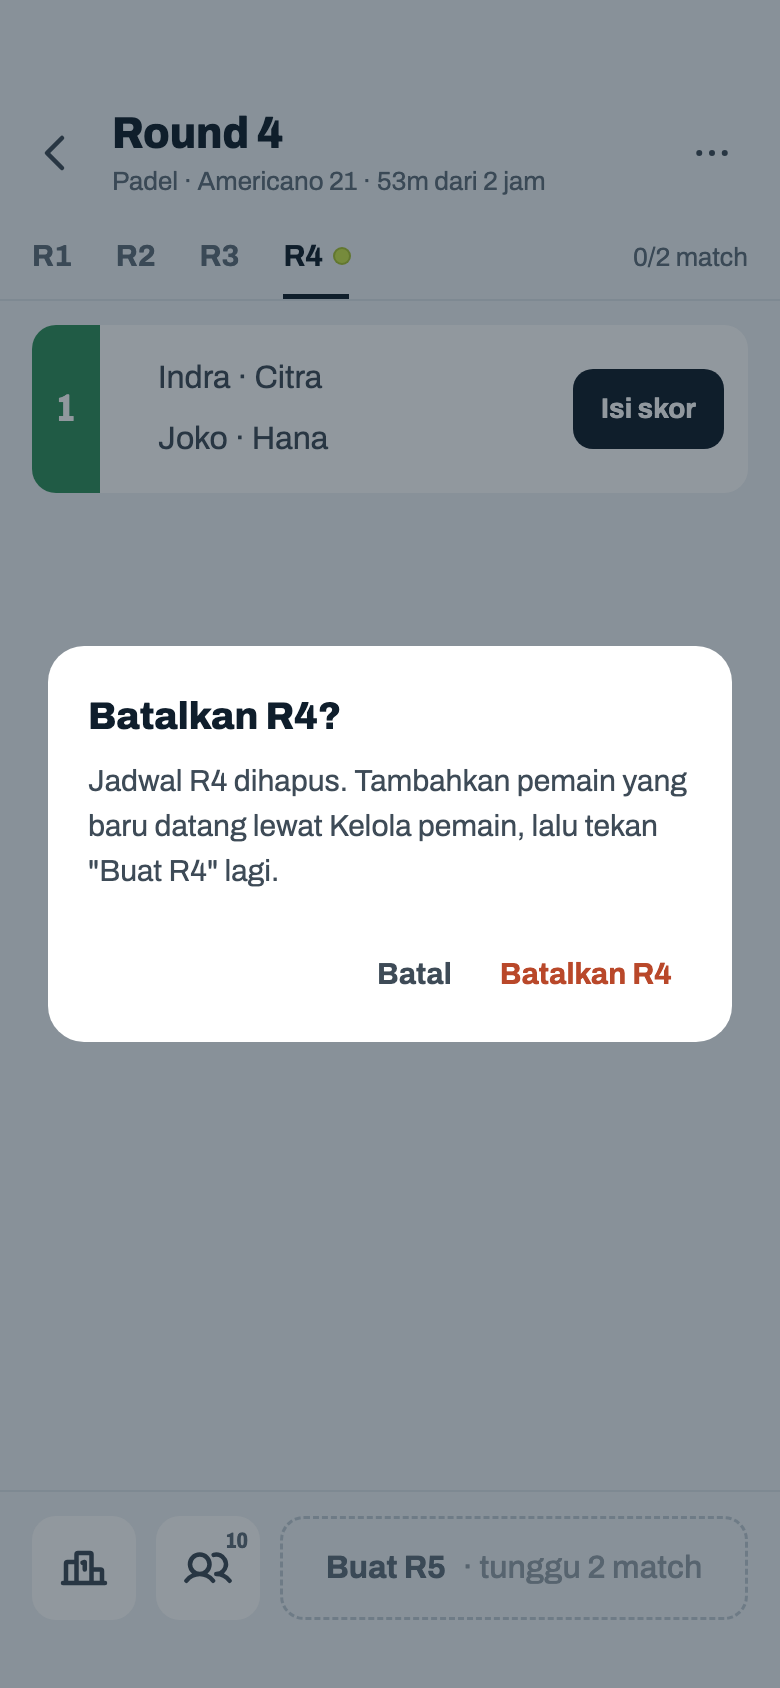
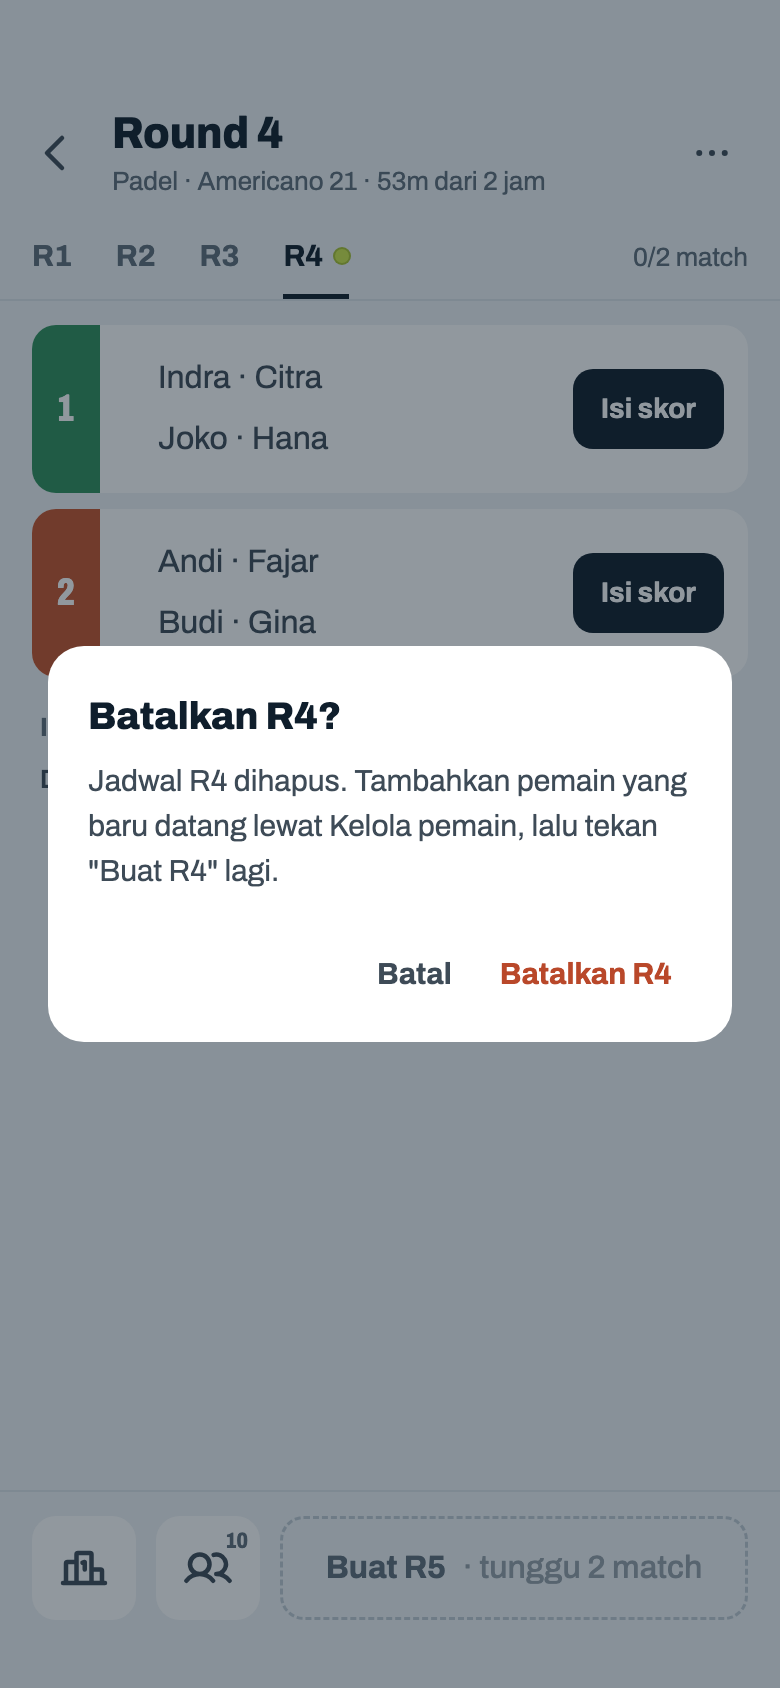
[major] Hi-fi: frame lapisan mengikuti keadaan layar (06i–06k), ⋯ Fixed diakhiri pudar (06c)
Keputusan host 2026-10-22: frame menu/dialog/sheet menggambar layar di belakangnya persis sesuai
keadaannya — 06i dan 06j sama dengan 06h (match court 2, Istirahat, Batalkan R4), 06k menampilkan R1
yang baru dibuat. Jadwal Fixed yang sudah diakhiri: ⋯ pudar dan tidak bisa diketuk (06c, PRD 5.5).
Frame dirender ulang, artifact dipublish ulang (v46); golden 06c tidak lagi butuh pengecualian.

diff --git a/design/hifi.html b/design/hifi.html
@@ -1183,7 +1183,7 @@ Citra L<span class="caret"></span></div><div class="tools"><span class="txtbtn">
     <div class="scr">
       <div class="cap"><b>06c</b><span>Turnamen diakhiri</span></div>
       <div class="app">
-        <div class="appbar"><span class="icbtn"><svg class="ic"><use href="#i-back"/></svg></span><div class="t"><h1>Round 5</h1><p>Tennis · Race to 6 · diakhiri</p></div><span class="icbtn"><svg class="ic"><use href="#i-more"/></svg></span></div>
+        <div class="appbar"><span class="icbtn"><svg class="ic"><use href="#i-back"/></svg></span><div class="t"><h1>Round 5</h1><p>Tennis · Race to 6 · diakhiri</p></div><span class="icbtn" style="color:#C3CCD4"><svg class="ic"><use href="#i-more"/></svg></span></div>
         <div class="tabs"><b>R1</b><b>R2</b><b>R3</b><b>R4</b><b class="on">R5</b><span class="meta">1/2 match</span></div>
         <div class="body" style="padding-top:12px">
           <div class="list">
@@ -1196,7 +1196,7 @@ Citra L<span class="caret"></span></div><div class="tools"><span class="txtbtn">
       </div>
       <ul>
         <li>Setelah "Akhiri": match kosong jadi "Tidak dimainkan" (tidak bisa diketuk), tidak ada lagi titik live, dan tombol Peringkat jadi tombol utama. Sama untuk turnamen yang semua match-nya selesai.</li>
-        <li>Fixed tidak bisa dilanjutkan, jadi tidak ada "Lanjutkan turnamen".</li>
+        <li>Fixed tidak bisa dilanjutkan, jadi tidak ada "Lanjutkan turnamen".</li><li>Ikon ⋯ tampil pudar dan tidak bisa diketuk: satu-satunya item menu Fixed ("Akhiri turnamen") sudah tidak ada (keputusan host 2026-10-22).</li>
       </ul>
     </div>
 
@@ -1321,7 +1321,10 @@ Citra L<span class="caret"></span></div><div class="tools"><span class="txtbtn">
         <div class="body" style="padding-top:12px"><div class="list">
           <div class="bug"><div class="court n" style="--c:#2F8F5B">1</div><div class="teams"><div class="team"><i class="w"></i><span class="nm">Indra · Citra</span></div><div class="team"><i class="w"></i><span class="nm">Joko · Hana</span></div></div><span class="btn btn-primary btn-sm cta">Isi skor</span></div>
           <div class="bug"><div class="court n" style="--c:#C4532D">2</div><div class="teams"><div class="team"><i class="w"></i><span class="nm">Andi · Fajar</span></div><div class="team"><i class="w"></i><span class="nm">Budi · Gina</span></div></div><span class="btn btn-primary btn-sm cta">Isi skor</span></div>
-        </div></div>
+        </div>
+          <div class="rest"><div class="ghead"><span class="glabel">Istirahat · <span class="prio">Prioritas main di R5</span></span></div><div class="names"><span>Dewant R</span><span>Eko M</span></div></div>
+          <div style="display:flex;justify-content:center"><span class="btn btn-ghost btn-sm"><svg class="ic ic-s"><use href="#i-undo"/></svg>Batalkan R4</span></div>
+        </div>
         <div class="actionbar"><span class="icbtn solid"><svg class="ic"><use href="#i-podium"/></svg></span><span class="icbtn solid"><svg class="ic"><use href="#i-people"/></svg><span class="count">10</span></span><span class="btn btn-wait">Buat R5 <span class="meta">· tunggu 2 match</span></span></div>
         <div class="menu">
           <div class="mi"><svg class="ic"><use href="#i-info"/></svg>Cara kerja Mixed</div>
@@ -1342,7 +1345,11 @@ Citra L<span class="caret"></span></div><div class="tools"><span class="txtbtn">
         <div class="tabs"><b>R1</b><b>R2</b><b>R3</b><b class="on">R4<i class="live"></i></b><span class="meta">0/2 match</span></div>
         <div class="body" style="padding-top:12px"><div class="list">
           <div class="bug"><div class="court n" style="--c:#2F8F5B">1</div><div class="teams"><div class="team"><i class="w"></i><span class="nm">Indra · Citra</span></div><div class="team"><i class="w"></i><span class="nm">Joko · Hana</span></div></div><span class="btn btn-primary btn-sm cta">Isi skor</span></div>
-        </div></div>
+          <div class="bug"><div class="court n" style="--c:#C4532D">2</div><div class="teams"><div class="team"><i class="w"></i><span class="nm">Andi · Fajar</span></div><div class="team"><i class="w"></i><span class="nm">Budi · Gina</span></div></div><span class="btn btn-primary btn-sm cta">Isi skor</span></div>
+        </div>
+          <div class="rest"><div class="ghead"><span class="glabel">Istirahat · <span class="prio">Prioritas main di R5</span></span></div><div class="names"><span>Dewant R</span><span>Eko M</span></div></div>
+          <div style="display:flex;justify-content:center"><span class="btn btn-ghost btn-sm"><svg class="ic ic-s"><use href="#i-undo"/></svg>Batalkan R4</span></div>
+        </div>
         <div class="actionbar"><span class="icbtn solid"><svg class="ic"><use href="#i-podium"/></svg></span><span class="icbtn solid"><svg class="ic"><use href="#i-people"/></svg><span class="count">10</span></span><span class="btn btn-wait">Buat R5 <span class="meta">· tunggu 2 match</span></span></div>
         <div class="scrim"></div>
         <div class="dialog"><h2>Batalkan R4?</h2><p>Jadwal R4 dihapus. Tambahkan pemain yang baru datang lewat Kelola pemain, lalu tekan "Buat R4" lagi.</p><div class="dactions"><span class="txtbtn">Batal</span><span class="txtbtn danger">Batalkan R4</span></div></div>
@@ -1357,6 +1364,14 @@ Citra L<span class="caret"></span></div><div class="tools"><span class="txtbtn">
       <div class="app">
         <div class="appbar"><span class="icbtn"><svg class="ic"><use href="#i-back"/></svg></span><div class="t"><h1>Round 1</h1><p>Padel · Americano 21 · 0m dari 2 jam</p></div><span class="icbtn"><svg class="ic"><use href="#i-more"/></svg></span></div>
         <div class="tabs"><b class="on">R1<i class="live"></i></b><span class="meta">0/2 match</span></div>
+        <div class="body" style="padding-top:12px">
+          <div class="list">
+            <div class="bug"><div class="court n" style="--c:#2F8F5B">1</div><div class="teams"><div class="team"><i class="w"></i><span class="nm">Andi · Budi</span></div><div class="team"><i class="w"></i><span class="nm">Citra · Dewant</span></div></div><span class="btn btn-primary btn-sm cta">Isi skor</span></div>
+            <div class="bug"><div class="court n" style="--c:#C4532D">2</div><div class="teams"><div class="team"><i class="w"></i><span class="nm">Eko · Fajar</span></div><div class="team"><i class="w"></i><span class="nm">Indra · Joko</span></div></div><span class="btn btn-primary btn-sm cta">Isi skor</span></div>
+          </div>
+          <div class="rest"><div class="ghead"><span class="glabel">Istirahat · <span class="prio">Prioritas main di R2</span></span></div><div class="names"><span>Gina R</span><span>Hana T</span></div></div>
+        </div>
+        <div class="actionbar"><span class="icbtn solid"><svg class="ic"><use href="#i-podium"/></svg></span><span class="icbtn solid"><svg class="ic"><use href="#i-people"/></svg><span class="count">10</span></span><span class="btn btn-wait">Buat R2 <span class="meta">· tunggu 2 match</span></span></div>
         <div class="scrim"></div>
         <div class="sheet">
           <span class="grab"></span>
@@ -2184,7 +2199,7 @@ Citra L<span class="caret"></span></div><div class="tools"><span class="txtbtn">
         <li>Generator Mixed: undian pemain seri dikunci per round (seed turnamen + nomor round), perlu test baru.</li>
         <li>Input Skor: satu angka besar per tim, keypad sendiri, batas angka per format di keypad.</li>
         <li>Mixed Final setelah diakhiri atau waktu habis dengan round terakhir lengkap; Peringkat M–K–S; Detail Fixed dua nama, Mixed dengan partner; istilah "pemain"; Bagikan status nyata, hitungan pasangan, tema default biru; "1 round (R9)".</li>
-        <li>Ikon app: opsi A di 01j — sudut lapangan tampak atas dari painter Beranda, garis putih 100%, bola di service box.</li><li>Simpanan turnamen membawa versi app yang menulisnya (<code>appVersion</code>, semver); data tanpa versi atau dari skema lama diabaikan, bukan dipaksa dibaca (2026-10-22).</li><li>Gambar Feed/Story (11d, 11f, 11g) memakai line-height 1,4 seperti kartu pratinjau, jadi kaki Feed Ringkas tetap di dalam padding (2026-10-22).</li><li>Keypad: kotak yang sudah penuh atau baru dipilih menerima ketikan berikutnya sebagai pengganti isinya, jadi yang mati hanya angka di atas batas (07a–07g digambar ulang dengan tombol mati); saat ubah skor (07i) semua angka mati sampai kotak diketuk (2026-10-22).</li><li>Tinggi tombol mengikuti niat desain: Lanjutkan di banner 46 pt (01e, 01f), Tambah di Kelola pemain 48 pt sejajar kolom nama (08a, 08b) (2026-10-22).</li><li>Transisi 01g: keyframe 200 ms digambar persis dari aturan (posisi garis 0,37, kaca belum tampak); nama lama hilang di 30% pertama (2026-10-22).</li><li>Data contoh Jadwal Fixed dibetulkan: 06c (R5) jadi Andi · Budi 6–5 Indra · Joko, Citra · Dewant vs Gina · Hana tidak dimainkan, Eko · Fajar istirahat — Indra · Joko sudah istirahat di R2, dan di round-robin 5 pasangan tiap pasangan istirahat tepat sekali. 06d dan 06e dilengkapi match court 2 dan baris Istirahat seperti 06a karena keadaannya sama (2026-10-22).</li><li>Data contoh 01e/01h dibetulkan jadi "Round 4 · 6 dari 8 match" (R4 baru dibuat): "Round 3 · 6 dari 8" mustahil di Mixed 8 pemain karena round berikutnya baru dibuat setelah round terakhir lengkap (2026-10-22).</li>
+        <li>Ikon app: opsi A di 01j — sudut lapangan tampak atas dari painter Beranda, garis putih 100%, bola di service box.</li><li>Simpanan turnamen membawa versi app yang menulisnya (<code>appVersion</code>, semver); data tanpa versi atau dari skema lama diabaikan, bukan dipaksa dibaca (2026-10-22).</li><li>Gambar Feed/Story (11d, 11f, 11g) memakai line-height 1,4 seperti kartu pratinjau, jadi kaki Feed Ringkas tetap di dalam padding (2026-10-22).</li><li>Keypad: kotak yang sudah penuh atau baru dipilih menerima ketikan berikutnya sebagai pengganti isinya, jadi yang mati hanya angka di atas batas (07a–07g digambar ulang dengan tombol mati); saat ubah skor (07i) semua angka mati sampai kotak diketuk (2026-10-22).</li><li>Tinggi tombol mengikuti niat desain: Lanjutkan di banner 46 pt (01e, 01f), Tambah di Kelola pemain 48 pt sejajar kolom nama (08a, 08b) (2026-10-22).</li><li>Transisi 01g: keyframe 200 ms digambar persis dari aturan (posisi garis 0,37, kaca belum tampak); nama lama hilang di 30% pertama (2026-10-22).</li><li>Data contoh Jadwal Fixed dibetulkan: 06c (R5) jadi Andi · Budi 6–5 Indra · Joko, Citra · Dewant vs Gina · Hana tidak dimainkan, Eko · Fajar istirahat — Indra · Joko sudah istirahat di R2, dan di round-robin 5 pasangan tiap pasangan istirahat tepat sekali. 06d dan 06e dilengkapi match court 2 dan baris Istirahat seperti 06a karena keadaannya sama (2026-10-22).</li><li>Frame lapisan (menu, dialog, sheet) menggambar layar di belakangnya persis sesuai keadaan layar itu: 06i dan 06j sama dengan 06h (match court 2, Istirahat, Batalkan R4), 06k menampilkan R1 yang baru dibuat dengan Istirahat dan action bar. Jadwal Fixed yang sudah diakhiri: ⋯ pudar dan tidak bisa diketuk karena menunya kosong (06c) (2026-10-22).</li><li>Data contoh 01e/01h dibetulkan jadi "Round 4 · 6 dari 8 match" (R4 baru dibuat): "Round 3 · 6 dari 8" mustahil di Mixed 8 pemain karena round berikutnya baru dibuat setelah round terakhir lengkap (2026-10-22).</li>
         <li>WO: Race to → pemenang N game; Best of &amp; Americano → rata-rata sendiri, minimal skor menang terkecil (⌊total ÷ 2⌋ + 1); kalah 0; selisih tidak berubah (mengganti "games WO tidak dihitung" di PRD 4.4; perlu test baru di <code>ranking_calculator</code>).</li>
         <li>Komponen lapisan: <code>showMabarConfirm</code> untuk semua dialog konfirmasi, <code>showMabarSheet</code> dengan lima jenis footer.</li>
       </ul>

diff --git a/test/hifi/screens/jadwal_fixed_test.dart b/test/hifi/screens/jadwal_fixed_test.dart
@@ -109,8 +109,6 @@ void main() {
     );
   });
 
-  // Beda disengaja: ⋯ digambar pudar (mati) karena satu-satunya item menu Fixed hilang setelah diakhiri;
-  // frame menggambarnya aktif. Ditanyakan ke host.
   testWidgets('06c turnamen diakhiri', (tester) async {
     await expectMatchesHifi(tester, screen(ended), '06c');
   });

diff --git a/design/spec/components.md b/design/spec/components.md
@@ -90,7 +90,7 @@ Dipakai di frame: 08a, 08b
 Bilah tombol menempel di bawah, garis tipis di atas, safe area 34.
 
 Kelas hi-fi: `.actionbar`  
-Dipakai di frame: 02a, 02b, 02c, 02d, 03a, 03b, 03c, 03d, 03e, 04a, 04b, 04c, 04d, 04e, 06a, 06b, 06c, 06d, 06e, 06f, 06g, 06h, 06i, 06j, 06l, 06m, 06n, 06o, 09a, 09b, 09c, 09d, 09e, 09f, 11a, 11b, 11c, 11e, 11h, 11i
+Dipakai di frame: 02a, 02b, 02c, 02d, 03a, 03b, 03c, 03d, 03e, 04a, 04b, 04c, 04d, 04e, 06a, 06b, 06c, 06d, 06e, 06f, 06g, 06h, 06i, 06j, 06k, 06l, 06m, 06n, 06o, 09a, 09b, 09c, 09d, 09e, 09f, 11a, 11b, 11c, 11e, 11h, 11i
 
 ```css
 .actionbar { margin-top: auto; padding: 12px 16px 34px; display: flex; gap: 10px; background: var(--paper); border-top: 1px solid var(--line); flex: none; }
@@ -104,7 +104,7 @@ Dipakai di frame: 02a, 02b, 02c, 02d, 03a, 03b, 03c, 03d, 03e, 04a, 04b, 04c, 04
 Daftar bergaya pengaturan + label dan catatan grup.
 
 Kelas hi-fi: `.group`, `.row`, `.glabel`, `.gnote`  
-Dipakai di frame: 01a, 01b, 01c, 01i, 02b, 02c, 02d, 03a, 03b, 03c, 03d, 03e, 04a, 04b, 04c, 04d, 04e, 06a, 06b, 06c, 06d, 06e, 06f, 06g, 06h, 06k, 06l, 06m, 06n, 06o, 08a, 08b, 08c, 08d, 07j, 10a, 10b, 10c, 11a, 11b, 11e, 11h, 11i
+Dipakai di frame: 01a, 01b, 01c, 01i, 02b, 02c, 02d, 03a, 03b, 03c, 03d, 03e, 04a, 04b, 04c, 04d, 04e, 06a, 06b, 06c, 06d, 06e, 06f, 06g, 06h, 06i, 06j, 06k, 06l, 06m, 06n, 06o, 08a, 08b, 08c, 08d, 07j, 10a, 10b, 10c, 11a, 11b, 11e, 11h, 11i
 
 ```css
 .glabel { font-size: 13px; font-weight: 700; color: var(--ink-3); padding: 0 4px; margin-bottom: -8px; }
@@ -131,7 +131,7 @@ Dipakai di frame: 01a, 01b, 01c, 01i, 02b, 02c, 02d, 03a, 03b, 03c, 03d, 03e, 04
 Label grup dengan satu aksi teks atau tag di ujungnya.
 
 Kelas hi-fi: `.ghead`  
-Dipakai di frame: 04a, 04b, 04c, 04d, 04e, 06a, 06b, 06c, 06d, 06e, 06f, 06g, 06h, 06l, 06m, 06n, 06o
+Dipakai di frame: 04a, 04b, 04c, 04d, 04e, 06a, 06b, 06c, 06d, 06e, 06f, 06g, 06h, 06i, 06j, 06k, 06l, 06m, 06n, 06o
 
 ```css
 .rest .ghead { margin: 0; }
@@ -276,7 +276,7 @@ Dipakai di frame: 06a, 06b, 06c, 06d, 06e, 06f, 06g, 06h, 06i, 06j, 06k, 06l, 06
 Satu match gaya scorebug.
 
 Kelas hi-fi: `.list`, `.bug`, `.team`  
-Dipakai di frame: 06a, 06b, 06c, 06d, 06e, 06f, 06g, 06h, 06i, 06j, 06l, 06m, 06n, 06o, 10a, 10b
+Dipakai di frame: 06a, 06b, 06c, 06d, 06e, 06f, 06g, 06h, 06i, 06j, 06k, 06l, 06m, 06n, 06o, 10a, 10b
 
 ```css
 .list { display: flex; flex-direction: column; gap: 8px; }
@@ -303,7 +303,7 @@ Dipakai di frame: 06a, 06b, 06c, 06d, 06e, 06f, 06g, 06h, 06i, 06j, 06l, 06m, 06
 Yang istirahat di round ini (+ prioritas round berikutnya).
 
 Kelas hi-fi: `.rest`  
-Dipakai di frame: 06a, 06b, 06c, 06d, 06e, 06f, 06g, 06h, 06l, 06m, 06n, 06o
+Dipakai di frame: 06a, 06b, 06c, 06d, 06e, 06f, 06g, 06h, 06i, 06j, 06k, 06l, 06m, 06n, 06o
 
 ```css
 .rest { display: flex; flex-direction: column; gap: 6px; flex: none; }

diff --git a/design/spec/screens/06-jadwal-mixed.md b/design/spec/screens/06-jadwal-mixed.md
@@ -39,7 +39,7 @@ Komponen: `MabarAppBar`, `MabarButton`, `MabarIconButton`, `MabarActionBar`, `Ma
 
 ![06i](../../frames/06i.png)
 
-Komponen: `MabarAppBar`, `MabarButton`, `MabarIconButton`, `MabarActionBar`, `RoundTabs`, `MatchScoreRow`, `MabarMenu`
+Komponen: `MabarAppBar`, `MabarButton`, `MabarIconButton`, `MabarActionBar`, `MabarGroup / MabarRow`, `MabarGroupHeader`, `RoundTabs`, `MatchScoreRow`, `RestingList`, `MabarMenu`
 
 - Isi menu Mixed: "Cara kerja Mixed" → sheet 06k dan "Akhiri turnamen" → dialog 06e.
 - "Batalkan Rn" sengaja tidak ada di menu: syaratnya sama persis dengan tombol di layar (06h), jadi item menu tidak pernah menolong saat tombolnya tidak ada. Satu aksi, satu tempat.
@@ -48,7 +48,7 @@ Komponen: `MabarAppBar`, `MabarButton`, `MabarIconButton`, `MabarActionBar`, `Ro
 
 ![06j](../../frames/06j.png)
 
-Komponen: `MabarAppBar`, `MabarButton`, `MabarTextButton`, `MabarIconButton`, `MabarActionBar`, `RoundTabs`, `MatchScoreRow`, `showMabarSheet`, `showMabarConfirm`
+Komponen: `MabarAppBar`, `MabarButton`, `MabarTextButton`, `MabarIconButton`, `MabarActionBar`, `MabarGroup / MabarRow`, `MabarGroupHeader`, `RoundTabs`, `MatchScoreRow`, `RestingList`, `showMabarSheet`, `showMabarConfirm`
 
 - Setelah dibatalkan, layar pindah ke R3. Kredit pemain yang tidak ada di R4 dihitung ulang dari riwayat tanpa R4.
 - Judul, isi ("tekan Buat R*n* lagi"), dan tombol memakai n yang sama: setelah dibatalkan, tombol bawah memang kembali jadi "Buat R*n*".
@@ -57,7 +57,7 @@ Komponen: `MabarAppBar`, `MabarButton`, `MabarTextButton`, `MabarIconButton`, `M
 
 ![06k](../../frames/06k.png)
 
-Komponen: `MabarAppBar`, `MabarButton`, `MabarIconButton`, `MabarGroup / MabarRow`, `RoundTabs`, `showMabarSheet`
+Komponen: `MabarAppBar`, `MabarButton`, `MabarIconButton`, `MabarActionBar`, `MabarGroup / MabarRow`, `MabarGroupHeader`, `RoundTabs`, `MatchScoreRow`, `RestingList`, `showMabarSheet`
 
 - Pengganti layar 05 "Cara Kerja Mixed". Teks Aturan Fairness dan label Estimasi tetap sesuai permintaan host.
 - Baru: muncul otomatis sekali saat R1 pertama kali dibuat, setelah itu lewat menu ⋯.

diff --git a/CLAUDE.md b/CLAUDE.md
@@ -64,7 +64,7 @@ Phosphor Bold, banner Beranda berupa sudut lapangan tampak atas (padel terracott
   (`ScheduleMatchRow`, `scheduleSubtitle`, `pairNames`) untuk Fixed dan Mixed. Golden yang butuh turnamen berjalan
   meng-override `tournamentProvider` dengan controller yang `build()`-nya mengembalikan turnamen itu (config
   `identical`, jadi `startIfNeeded` tidak membuat jadwal baru). Dialog Akhiri = `confirmFinishTournament` →
-  `showMabarConfirm`. Fixed setelah diakhiri: ⋯ mati (menunya kosong). Kedua layar jadwal memanggil
+  `showMabarConfirm`. Fixed setelah diakhiri: ⋯ pudar dan mati (menunya kosong; keputusan host, 06c). Kedua layar jadwal memanggil
   `startIfNeeded` lewat `Future.microtask` (Riverpod melarang mengubah provider di `initState`); Mixed
   memunculkan sheet "Cara kerja Mixed" (`mixed/mixed_guide_sheet.dart`) sekali saat R1 baru dibuat.
   `schedule_widgets.dart` tinggal `confirmFinishTournament` + `CourtBadge`/`SportBadge` lama (dipakai Input Skor

diff --git a/PRD.md b/PRD.md
@@ -231,6 +231,7 @@ Frame di hi-fi adalah kriteria selesai. Ringkasannya:
 - Istirahat: Fixed paling banyak satu pasangan; Mixed di round terakhir dibagi "Istirahat · Prioritas main di R(n+1)"
   dan "Istirahat lagi di R(n+1)".
 - Menu ⋯: Cara kerja Mixed (sheet; muncul otomatis sekali saat R1 dibuat) dan Akhiri turnamen (dialog).
+  Fixed yang sudah diakhiri tidak punya item menu lagi: ikon ⋯ tampil pudar dan tidak bisa diketuk.
 - Mixed: Buat R(n+1) / Batalkan Rn / Pemain (n) / Tambah jam / Lanjutkan turnamen.
 
 ### 5.6 Input Skor & Walkover (07a–07k)

diff --git a/design/spec/screens/05-jadwal-fixed.md b/design/spec/screens/05-jadwal-fixed.md
@@ -33,6 +33,7 @@ Komponen: `MabarAppBar`, `MabarButton`, `MabarIconButton`, `MabarActionBar`, `Ma
 
 - Setelah "Akhiri": match kosong jadi "Tidak dimainkan" (tidak bisa diketuk), tidak ada lagi titik live, dan tombol Peringkat jadi tombol utama. Sama untuk turnamen yang semua match-nya selesai.
 - Fixed tidak bisa dilanjutkan, jadi tidak ada "Lanjutkan turnamen".
+- Ikon ⋯ tampil pudar dan tidak bisa diketuk: satu-satunya item menu Fixed ("Akhiri turnamen") sudah tidak ada (keputusan host 2026-10-22).
 
 ## 06d · Menu ⋯ · Fixed
 
